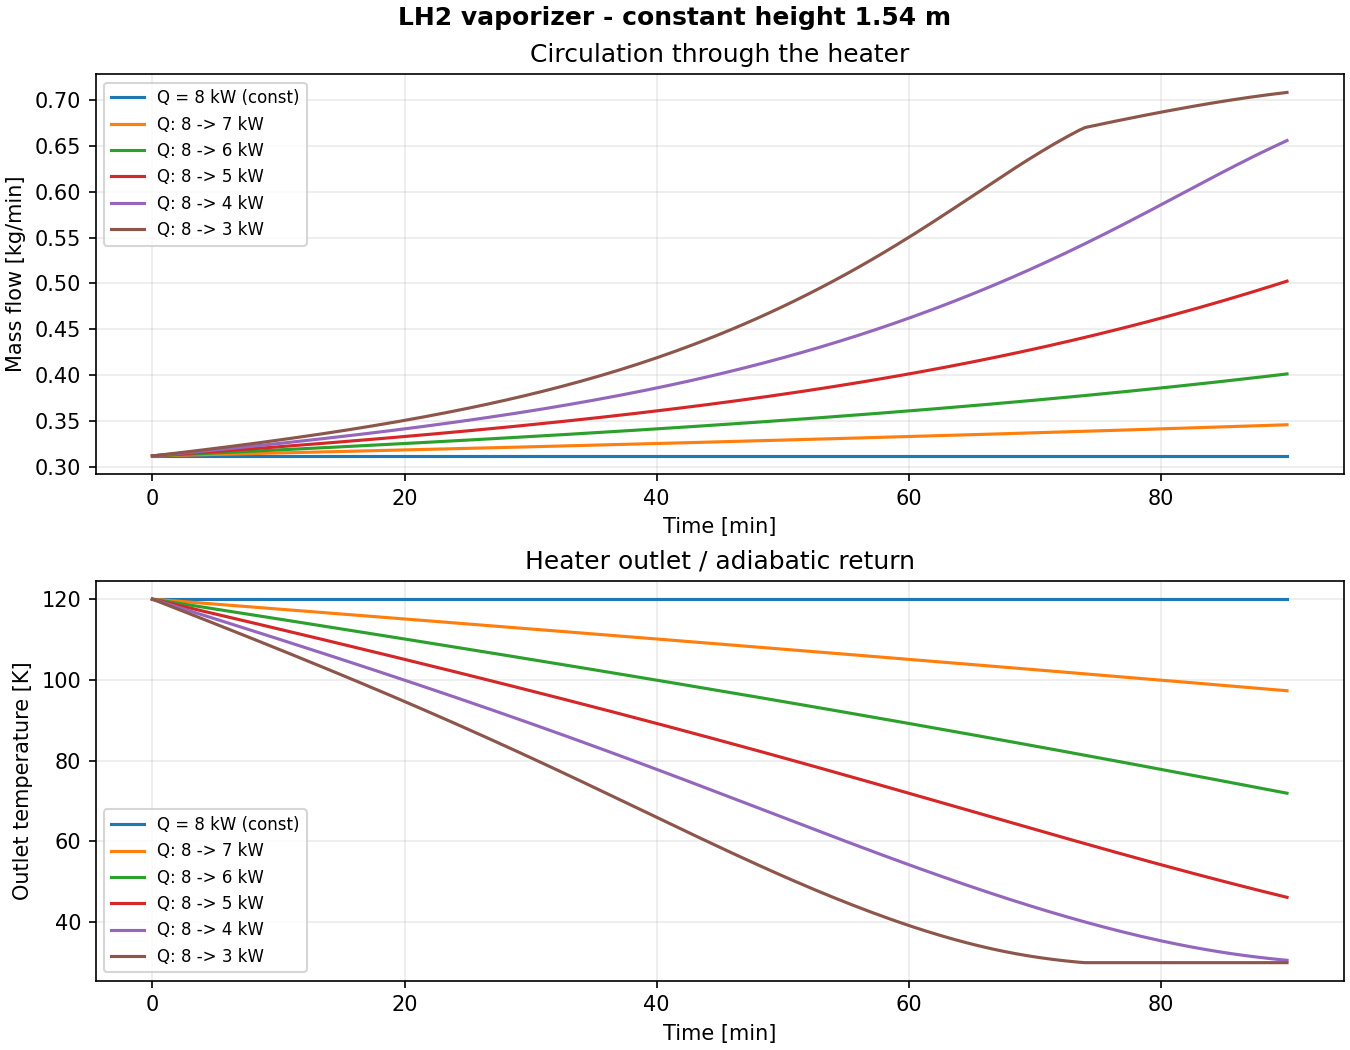
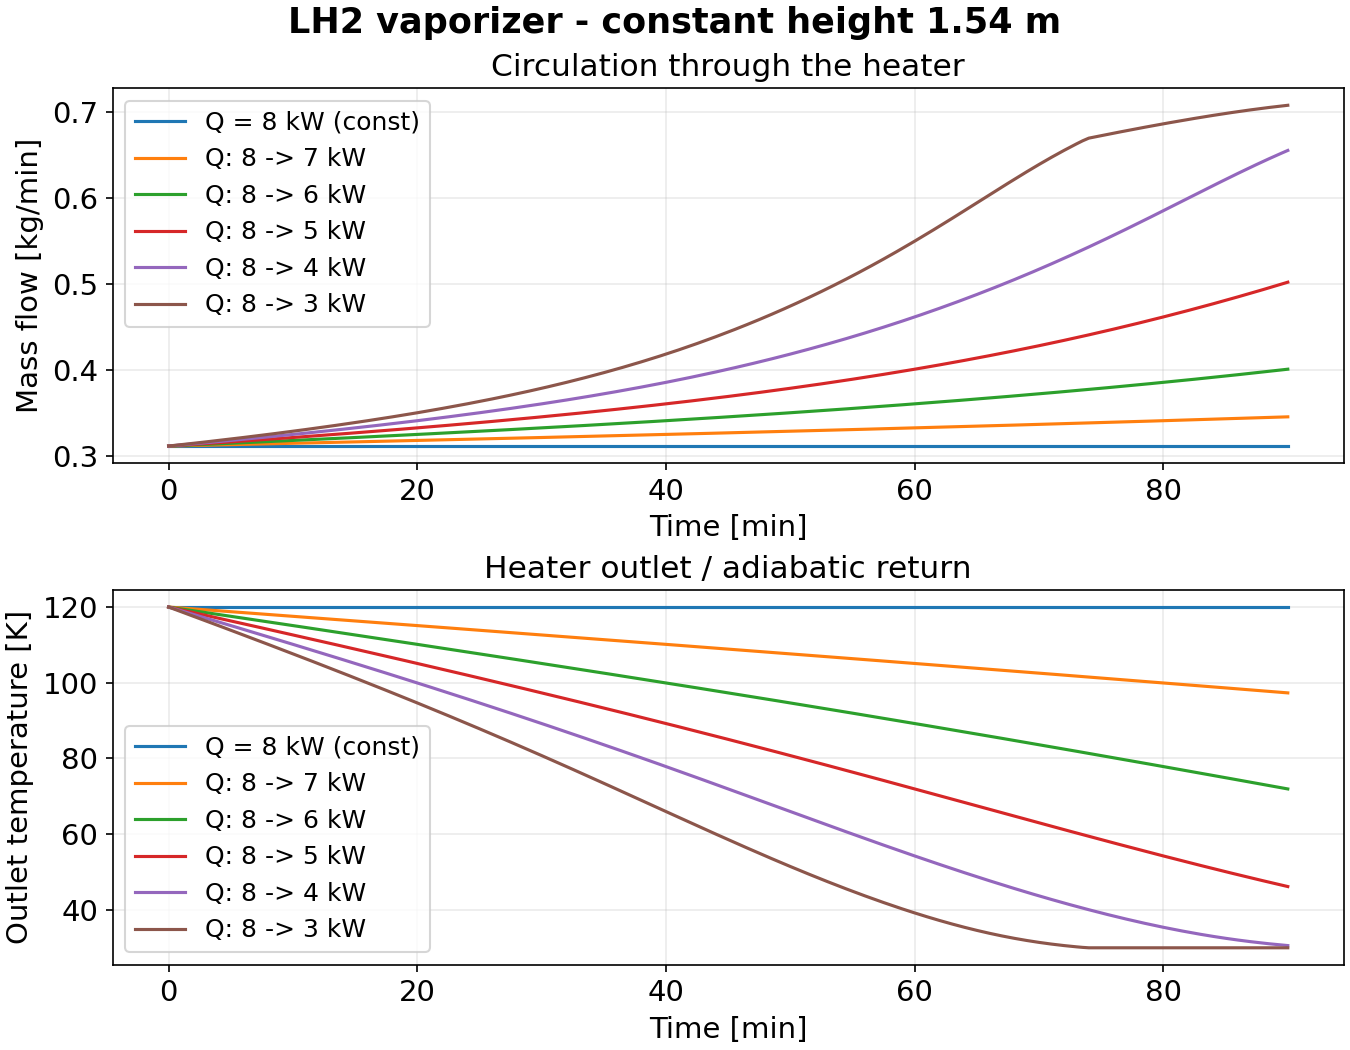
Increase plot font sizes and remove reference marker from map plots

diff --git a/python/plot_vaporizer_results.py b/python/plot_vaporizer_results.py
@@ -11,6 +11,7 @@ import numpy as np
 from scipy.io import loadmat
 
 RESULTS = Path(__file__).resolve().parent.parent / "results"
+plt.rcParams.update({"font.size": 14, "axes.titlesize": 15, "legend.fontsize": 12})
 
 
 def load_results(path):
@@ -69,7 +70,7 @@ def plot_scenario(kind, directory=RESULTS):
         axes[1].plot(t, q[:, k], color=colors(k % 10), label=label)
     decorate(axes[1], "Time [min]", "Absorbed heater power [kW]", "Shared power schedules")
     axes[1].margins(y=0.08)  # Autoscaling includes every case, including constant power.
-    axes[1].legend(fontsize=8)
+    axes[1].legend()
     outputs = [save(fig, directory, f"{kind}_scenario_drivers")]
     fig, axes = plt.subplots(2, 1, figsize=(9, 7), constrained_layout=True)
     fig.suptitle(f"LH2 vaporizer - {context}", fontweight="bold")
@@ -79,7 +80,7 @@ def plot_scenario(kind, directory=RESULTS):
     decorate(axes[0], "Time [min]", "Mass flow [kg/min]", "Circulation through the heater")
     decorate(axes[1], "Time [min]", "Outlet temperature [K]", "Heater outlet / adiabatic return")
     for ax in axes:
-        ax.legend(fontsize=8)
+        ax.legend()
     outputs.append(save(fig, directory, f"{kind}_scenario_mdot_Tout"))
     return outputs
 
@@ -101,7 +102,6 @@ def plot_sweep(directory=RESULTS):
         # pcolormesh also supports one-row or one-column custom sweeps.
         mesh = ax.pcolormesh(q, h, np.ma.masked_invalid(data), shading="nearest", cmap="viridis")
         fig.colorbar(mesh, ax=ax, label=label)
-        ax.plot(s["p"]["Qdot_ref"]/1000, s["p"]["H_ref"], "wo", mec="black")
         ax.set(xlabel="Absorbed heater power [kW]", ylabel="Liquid height [m]",
                title=f"Horizontal heater / vertical return - {label}")
         outputs.append(save(fig, directory, name))
@@ -116,7 +116,7 @@ def plot_sweep(directory=RESULTS):
         if name == "mdot_vs_Q":
             ax.plot(q, np.atleast_1d(s["ceiling_vs_Q"])*60, "--",
                     label="Complete-vaporization boundary Q/(hg-hL)")
-            ax.legend(fontsize=9)
+            ax.legend()
         elif name == "mdot_vs_H":
             title = f"Absorbed heater power = {q[iq]:.3g} kW"
         elif name == "T_out_vs_Q":

diff --git a/output/vap_plot_results.m b/output/vap_plot_results.m
@@ -8,7 +8,6 @@ if strcmp(kind,'sweep')
         item=pair{1}; f=figure('Color','w');
         contourf(Qg,Hg,item{2},16,'LineColor','none'); colorbar;
         xlabel('Absorbed heater power [kW]'); ylabel('Liquid height [m]'); title(item{3});
-        hold on; plot(S.p.Qdot_ref/1e3,S.p.H_ref,'wo','MarkerFaceColor','r');
         savefig_png(f,figDir,item{1});
     end
     data={S.Q_list/1e3,S.mdot_vs_Q*60,'mdot_vs_Q','Absorbed heater power [kW]','Mass flow [kg/min]'; ...
@@ -61,5 +60,6 @@ else
 end
 end
 function savefig_png(f,dir,name)
+fontsize(f,14,'points');
 print(f,fullfile(dir,[name '.png']),'-dpng','-r150'); close(f);
 end
